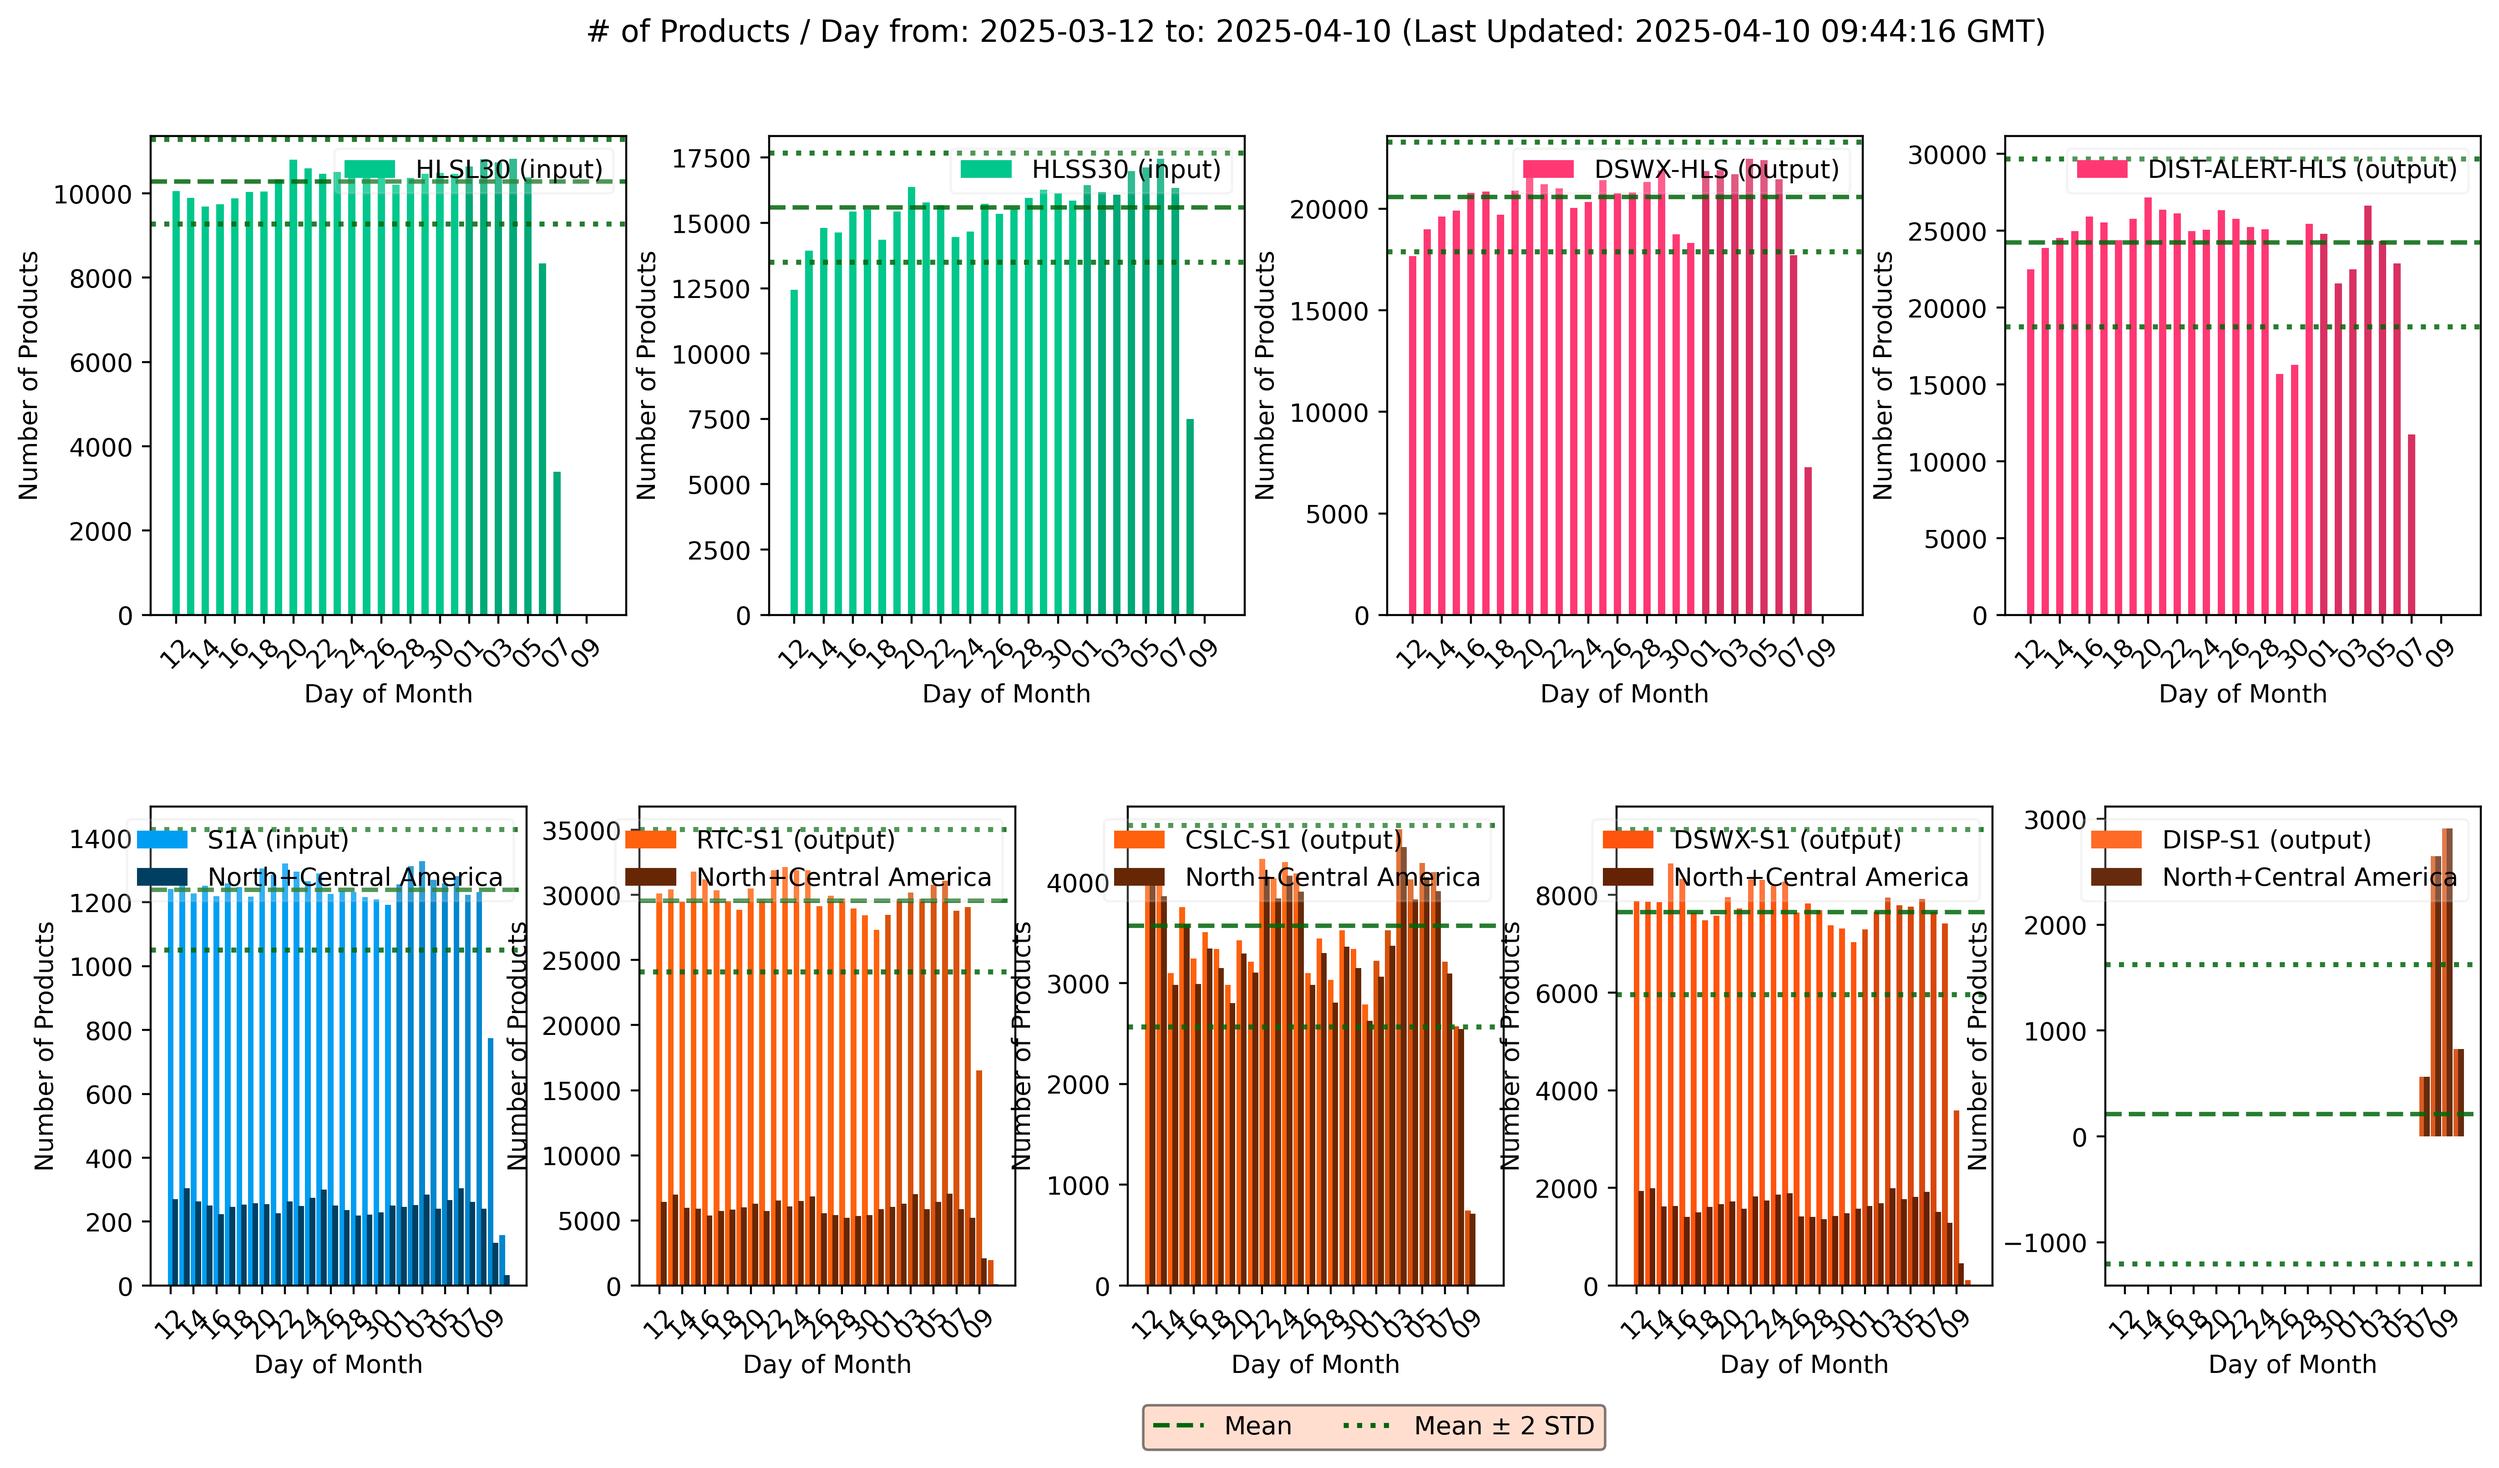
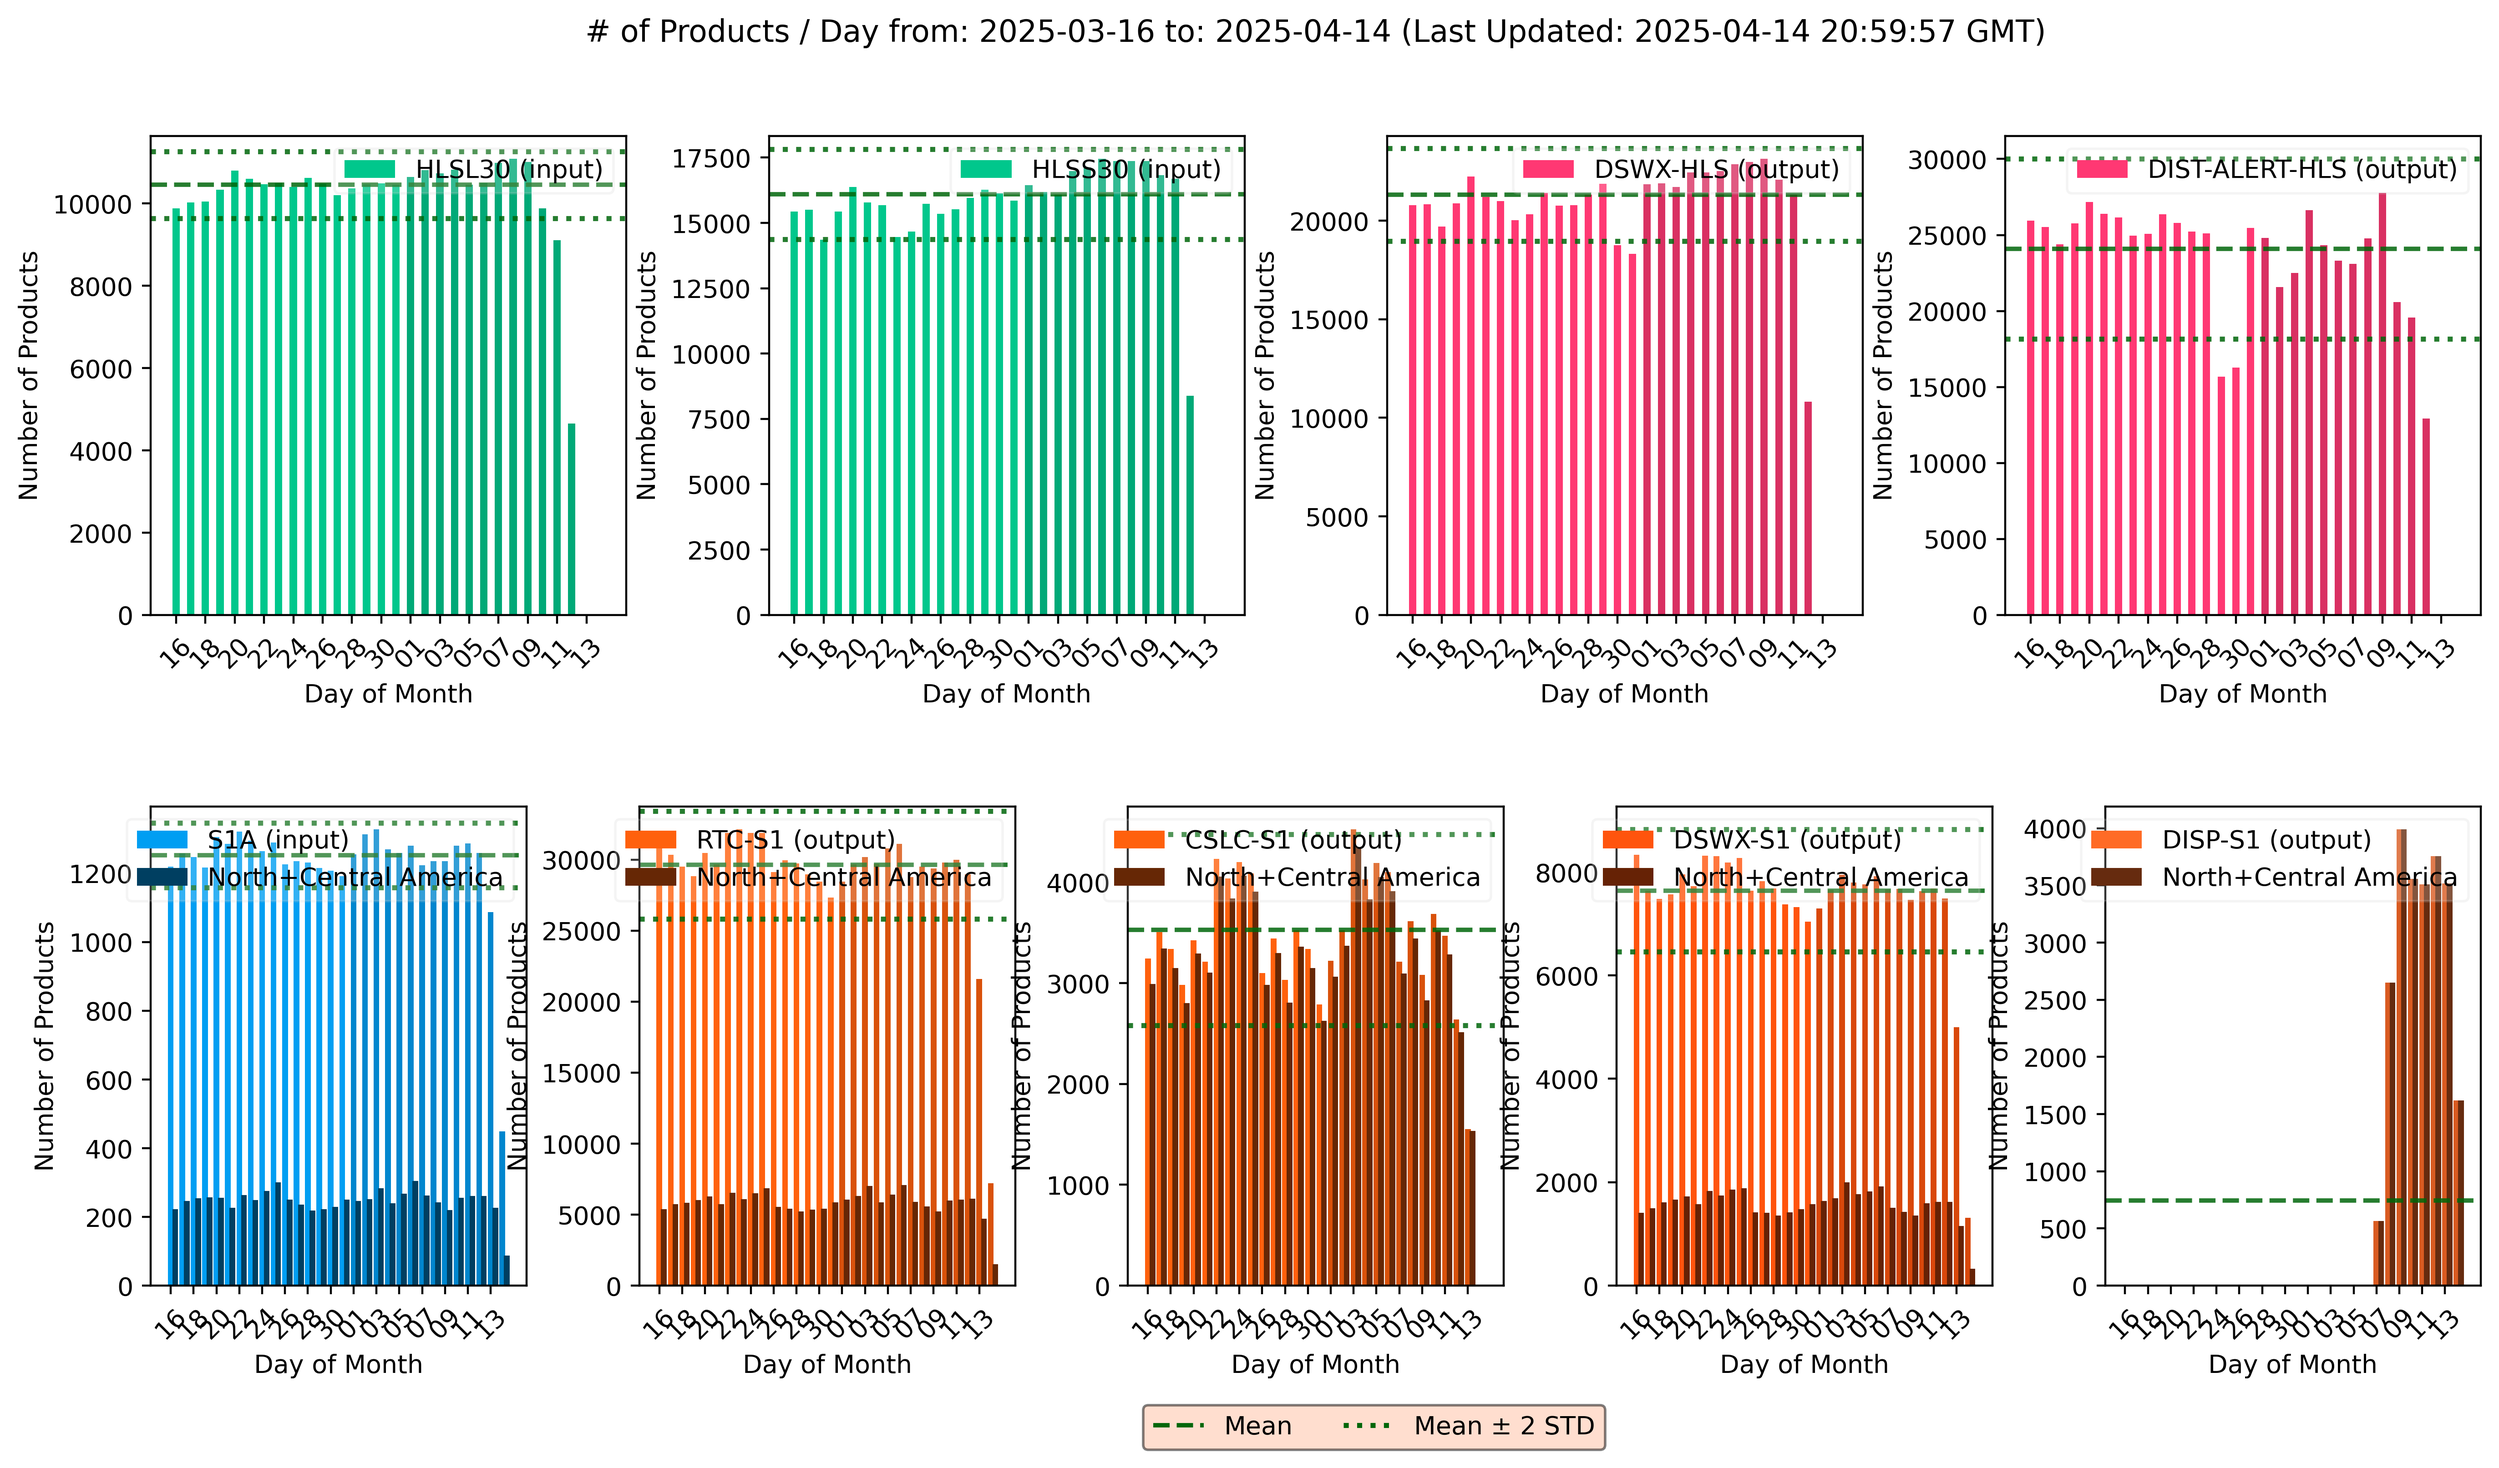
get rid of stats for disp

diff --git a/monitoring/opera_daily_products_query.py b/monitoring/opera_daily_products_query.py
@@ -308,8 +308,9 @@ def plot_products(quiet):
             label.append("North+Central America")
         ax.legend(label, loc="upper right", framealpha=0.2)
         ax.axhline(mean, color=(0.0, 0.4, 0.04, 0.85), linestyle='--', linewidth=1.75, label='Mean')
-        ax.axhline(std_sigma[0], color=(0.0, 0.4, 0.04, 0.85), linestyle=':', linewidth=2.0, label='-2-sigma')
-        ax.axhline(std_sigma[1], color=(0.0, 0.4, 0.04, 0.85), linestyle=':', linewidth=2.0, label='+2-sigma')
+        if "DISP" not in collection:
+            ax.axhline(std_sigma[0], color=(0.0, 0.4, 0.04, 0.85), linestyle=':', linewidth=2.0, label='-2-sigma')
+            ax.axhline(std_sigma[1], color=(0.0, 0.4, 0.04, 0.85), linestyle=':', linewidth=2.0, label='+2-sigma')
 
         check_data_points(samples, std_sigma)
 
@@ -325,6 +326,7 @@ def plot_products(quiet):
 
     # Create custom handles for the global legend
     mean_line = mlines.Line2D([], [], color=(0.0, 0.4, 0.04, 1.0), linestyle='--', linewidth=1.75, label='Mean')
+
     std_line = mlines.Line2D([], [], color=(0.0, 0.4, 0.04, 1.0), linestyle=':', linewidth=2.0, label='Mean ± 2 STD')
 
     # Add a global legend for mean and std deviation
